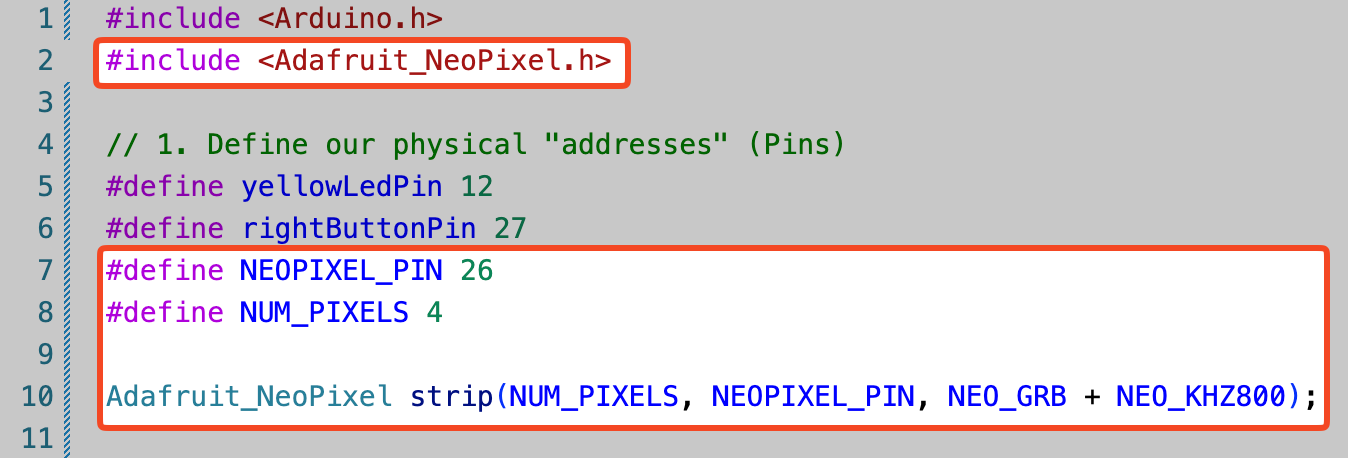
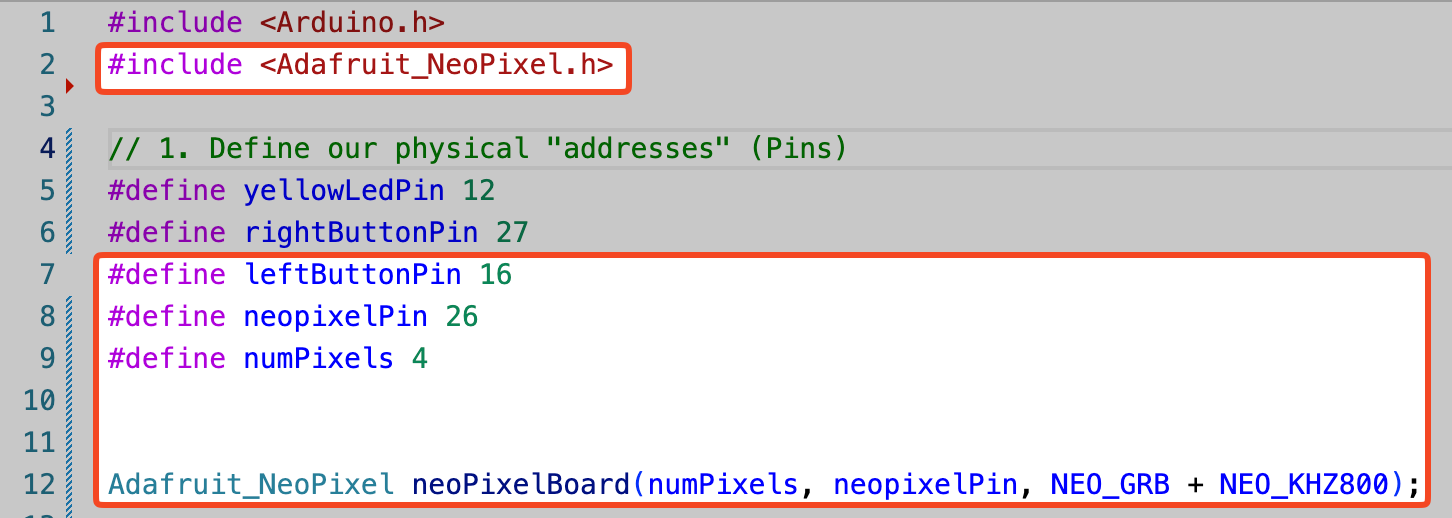
content update: 2026-03-31 13:28:48

Changed region(s): [[0.0, 0.0, 1.0, 1.0]]

diff --git a/_Robotics and Mechatronics/1 - Building and Programming Circuits/_projects/Smart House/_topics/Smart House Simulation Project.md b/_Robotics and Mechatronics/1 - Building and Programming Circuits/_projects/Smart House/_topics/Smart House Simulation Project.md
@@ -139,25 +139,46 @@ _Task-oriented: Recipes for specific house features._
 
 ### Ambient Mood Behaviour (NeoPixels)
 
-This behaviour allows the house to change its internal atmosphere using addressable LEDs.
+This behaviour allows the house to change its internal atmosphere using addressable LEDs on the NeoPixel board.  The LEDs will turn on and green if the left button is being pressed, and will turn off if the button **isn't** being pressed.
+
+The logic can be shown as 
+
+```mermaid
+graph TD
+    A([Start: automaticLightSystem]) --> B[/Read leftButtonPin/]
+    B --> C{buttonState == LOW?}
+    
+    C -- Yes --> D[Set Pixels to Green]
+    C -- No --> E[Set Pixels to Black/Off]
+    
+    D --> F([End])
+    E --> F([End])
+```
 
 **Requirements:** `#include <Adafruit_NeoPixel.h>`
 
 Add the following code to the start of `main.cpp` to define the pins and NeoPixel object:
 ```arduino
-#define NEOPIXEL_PIN 26
-#define NUM_PIXELS 4
+#define neopixelPin 26
+#define numPixels 4
+#define leftButtonPin 16
 
-Adafruit_NeoPixel strip(NUM_PIXELS, NEOPIXEL_PIN, NEO_GRB + NEO_KHZ800);
+Adafruit_NeoPixel neoPixelBoard(numPixels, neopixelPin, NEO_GRB + NEO_KHZ800);
 ```
 
 ![[smartHouseBehaviourAmbientMood1.png]]
 
-Update `setup()` to configure the NeoPixel strip to initialise:
+Update `setup()` to configure the NeoPixel board to initialise the button and the NeoPixel board.
 
 ```arduino
-strip.begin();
-strip.show(); 
+pinMode(leftButtonPin, INPUT_PULLUP);
+```
+
+and
+
+```arduino
+neoPixelBoard.begin();
+neoPixelBoard.show();
 ```
 
 ![[smartHouseBehaviourAmbientMood2.png]]
@@ -166,7 +187,7 @@ Include the behaviour to set the colours of the individual pixels.
 
 ```arduino
 void setMoodBehaviour(int r, int g, int b) {
-  for(int i=0; i<NUM_PIXELS; i++) {
+  for(int i=0; i<numPixels; i++) {
     strip.setPixelColor(i, strip.Color(r, g, b));
   }
   strip.show();
@@ -177,21 +198,44 @@ void setMoodBehaviour(int r, int g, int b) {
 
 ![[smartHouseBehaviourAmbientMood3.png]]
 
-Update `loop()` to call the new function.
+The logic for displaying colours has been defined, now the focus is on reading in the value of the button and then calling the setMoodBehaviour() function appropriately.
 
 ```arduino
-setMoodBehaviour(0, 255, 0); // Set the NeoPixels to Green
+void automaticLightSystem() {
+  int buttonState = digitalRead(leftButtonPin);
+  if (buttonState == LOW) {
+	   setMoodBehaviour(0, 255, 0); // Set the NeoPixels to Green
+  } else {
+	  setMoodBehaviour(0, 0, 0); // Set the NeoPixels to Black (off)
+  }
+}
 ```
 
 ![[smartHouseBehaviourAmbientMood4.png]]
 
-#### Understanding RGB Values
+Update `loop()` to call the new function.
 
-See this page for more details: [[RGB Values]]
+```arduino
+automaticLightSystem()
+```
 
-### Environmental Ventilation Behaviour (Servo Motor)
+![[smartHouseBehaviourAmbientMood5.png]]
 
-This behaviour automates the window to respond to internal conditions.
+
+> [!tip] Understanding RGB Values
+> See this page for more details: [[RGB Values]]
+
+Currently, this code simply sets all four pixels on the board to be green and nothing else which doesn't provide much in terms of functionality. The next step is to expand the code so that the pixels turn green *if* certain conditions are met and turns the pixels off if those conditions aren't met.
+
+### Environmental Ventilation Behaviour
+
+This behaviour automates the window to respond to internal conditions. 
+
+**The Goal:** Program a ventilation behaviour which will open a window if the house gets too humid.
+- **Sensor:** Steam Sensor.
+- **Actuator:** Servo.
+- **The Logic:** Use an `if` statement to check if the steam sensor pin reads a value over a set threshold. If it does, trigger the servo to move the window to the open position.
+
 
 First, include the library required for servo motors on an ESP32 microcontroller.
 
@@ -201,31 +245,90 @@ First, include the library required for servo motors on an ESP32 microcontroller
 
 ![[smartHouseBehaviourVentilation1.png]]
 
+Define the pins, moisture threshold and servo object at the top of your code. 
+`moistureThreshold` is the value read from the steam sensor which will determine whether the window will need to be open or closed.
+
+```arduino
+#define windowServoPin 5
+#define steamSensorPin 34
+#define moistureThreshold 500
+```
+and
+```arduino
+Servo windowServo;
+```
+
+![[smartHouseBehaviourVentilation2.png]]
+
 Update `setup()` to initialise the servo.
 
 ```arduino
-void setup() {
-  ESP32PWM::allocateTimer(0); 
-  windowServo.attach(WINDOW_SERVO_PIN);
-  windowServo.write(0); 
-}
+ESP32PWM::allocateTimer(0);
+ESP32PWM::allocateTimer(1);
+ESP32PWM::allocateTimer(2);
+ESP32PWM::allocateTimer(3);
+windowServo.setPeriodHertz(50); // standard 50 hz servo
+windowServo.attach(windowServoPin, 500, 2400);
+windowServo.write(0);
 ```
 
+Now set the steam sensor pin to be input:
+
+```arduino
+pinMode(steamSensorPin, INPUT);
+```
+
+![[smartHouseBehaviourVentilation3.png]]
+
+Add the `windowBehaviour()` custom function. This function will open the window if `true` is passed as a parameter, and will close the window if `false` is passed.
 
 ```
-#define WINDOW_SERVO_PIN 5
-Servo windowServo;
-
 void windowBehaviour(bool open) {
   if (open) windowServo.write(90); 
   else windowServo.write(0);
 }
-
-
-
-
 ```
 
+![[smartHouseBehaviourVentilation4.png]]
+
+The main behaviour logic is next. The logic is as follows:
+
+```mermaid
+graph TD
+    A([Start: moistureDetectionSystem]) --> B[/Read steamSensorPin/]
+    B --> C{steamValue > moistureThreshold?}
+    
+    C -- Yes --> D[windowBehaviour: true]
+    C -- No --> E[windowBehaviour: false]
+    
+    D --> F([End])
+    E --> F([End])
+```
+
+To implement this logic, the code is:
+
+```arduino
+void moistureDetectionSystem() {
+  int steamValue = analogRead(steamSensorPin);
+  if (steamValue > moistureThreshold) {
+    // Moisture detected
+    windowBehaviour(true);
+  } else {
+    // Dry
+    windowBehaviour(false);
+  }
+}
+```
+
+![[smartHouseBehaviourVentilation5.png]]
+
+Finally, call `moistureDetectionSystem()` from the `loop()`:
+
+![[smartHouseBehaviourVentilation6.png]]
+
+Compile and upload the code to test the functionality!
+
+![[smartHouseBehaviourVentilationDemo.gif]]
 #### Explanation: windowBehaviour()
 
 This provides a breakdown of how the function operates, specifically focusing on the logic within the conditional block and the role of its input parameter.
@@ -273,7 +376,6 @@ As your house gets smarter, your `loop()` function will become messy.
 _Information-oriented: Keeping your code professional._
 
 - **Variables/Functions:** `lowerCamelCase` (e.g., `isWindowOpen`)
-- **Constants/Pins:** `UPPERCASE` (e.g., `FAN_PIN`)
 - **Comments:** Every function must have a one-line comment explaining its purpose.
 ### Required Theory Links
 
@@ -304,12 +406,13 @@ Use the additional sensors and actuators in your kit to programmed the following
 - **Actuator:** DC Motor (with a fan blade).
 - **The Logic:** Define a variable for your "Max Temperature" (e.g., 27°C). Use the `if` statement to compare the current sensor reading to that variable.
 
-## The Phototactic Behaviour (Photoresistor + LED)
+## The Security Door Behaviour (RFID + Door Servo)
 
-**The Goal:** Program a light-sensitive behaviour so the house "senses" the transition from day to night, activating porch lights only when it detects a lack of ambient light.
-- **Sensor:** Photoresistor (LDR).
-- **Actuator:** LED.
-- **The Logic:** Read the analog value of the light sensor. If the value drops below a certain number (indicating darkness), enable the LED.
+**The Goal:** Program a RFID reader to accept only certain RFID tags. If the correct tag is read the rotating door opens, otherwise it closes.
+- **Sensor:** RFID reader.
+- **Actuator:** Servo
+- **The Logic:** Read the value of a detected RFID tag. If the value is correct, move the door servo to the open position. If the value is incorrect, then move the door to the closed position.
+
 
 ##  Programming Reflection
 
